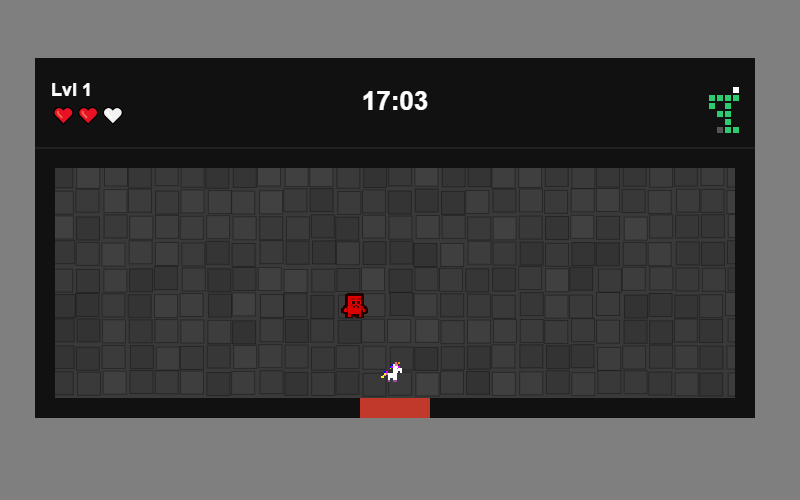
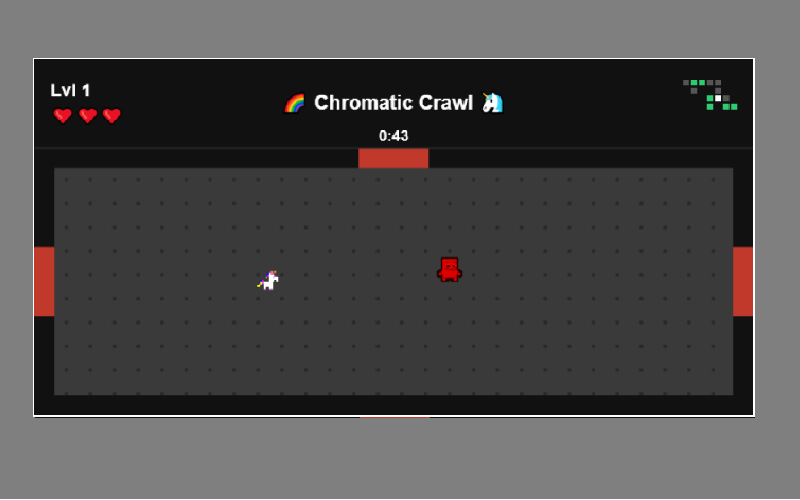
fix: update game description for clarity and correct color references

diff --git a/README.md b/README.md
@@ -8,9 +8,9 @@ The Moon Folk struck during the last eclipse, stealing every pot of gold from th
 
 You are a unicorn, and you must descend into the Moon Folk's dungeon to reclaim what was stolen.
 
-Explore room by room, dash down the creatures guarding each door, and face the color guardian waiting at the end of every level. Each guardian you defeat gives back one color of the rainbow  and with it, a new power for your unicorn, letting you overcome obstacles and guardians that stood in your way before.
+Explore room by room, dash down the creatures guarding each door, and face the color guardian waiting at the end of every level each one is hoarding a stolen pot of gold. Defeat it, and the Leprechaun appears to reclaim his pot: it bursts into a crystal of pure color, restoring that hue to the world and granting your unicorn a new power, letting you overcome obstacles and guardians that stood in your way before.
 
-Restore all seven colors, rebuild the rainbow, and bring the world back to life.
+Restore all seven pots, rebuild the rainbow, and bring the world back to life.
 
 ## How to Play
 
